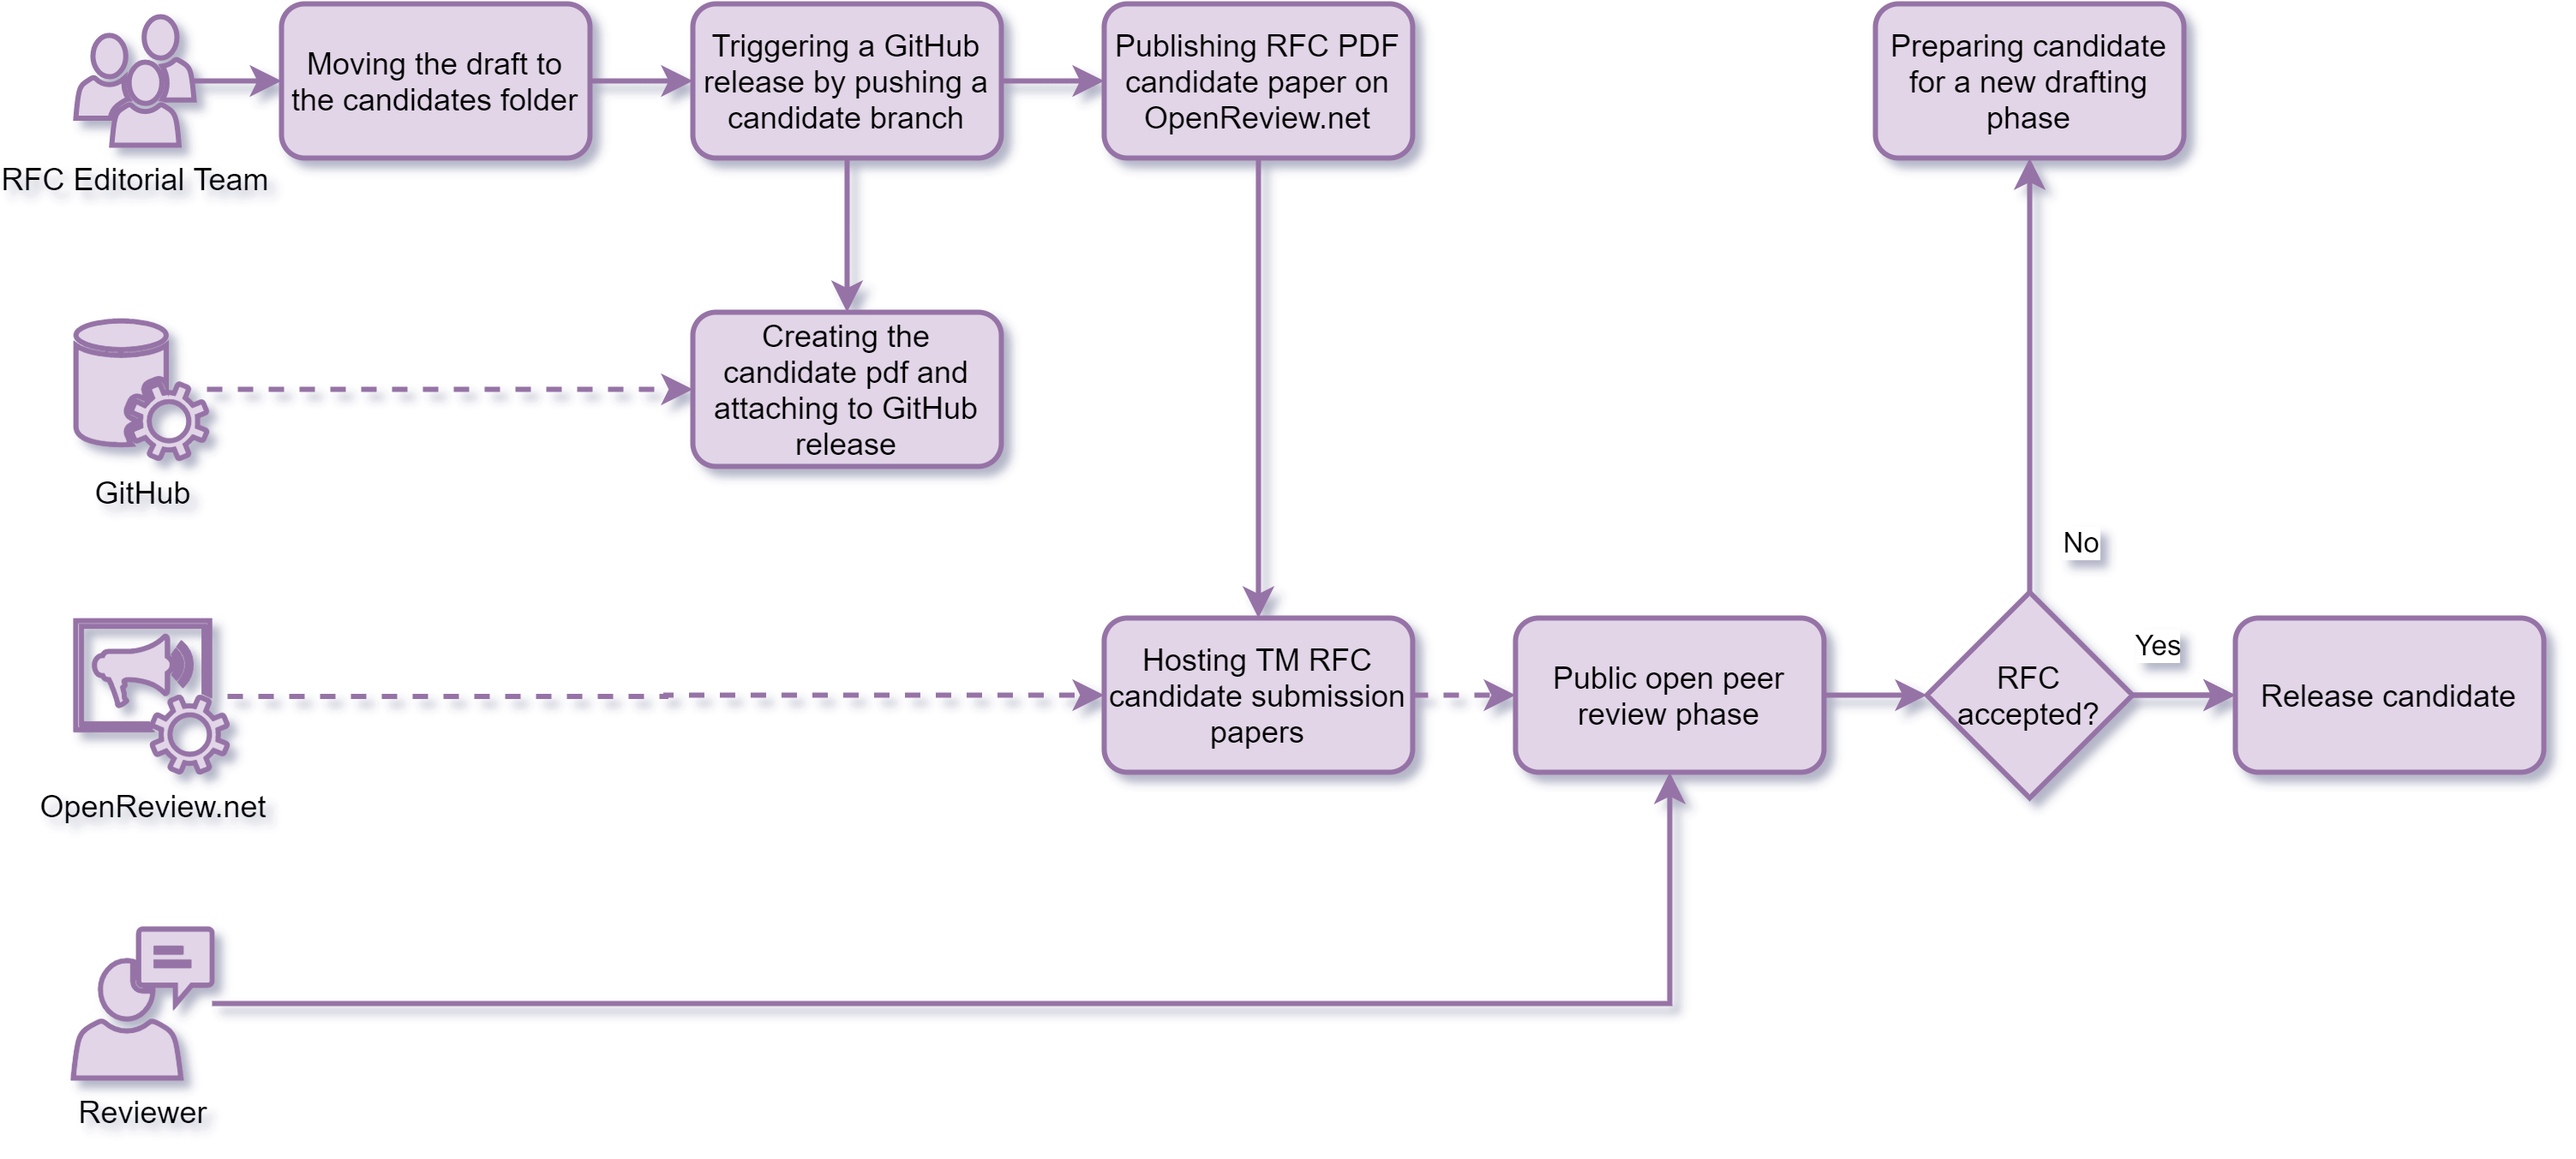
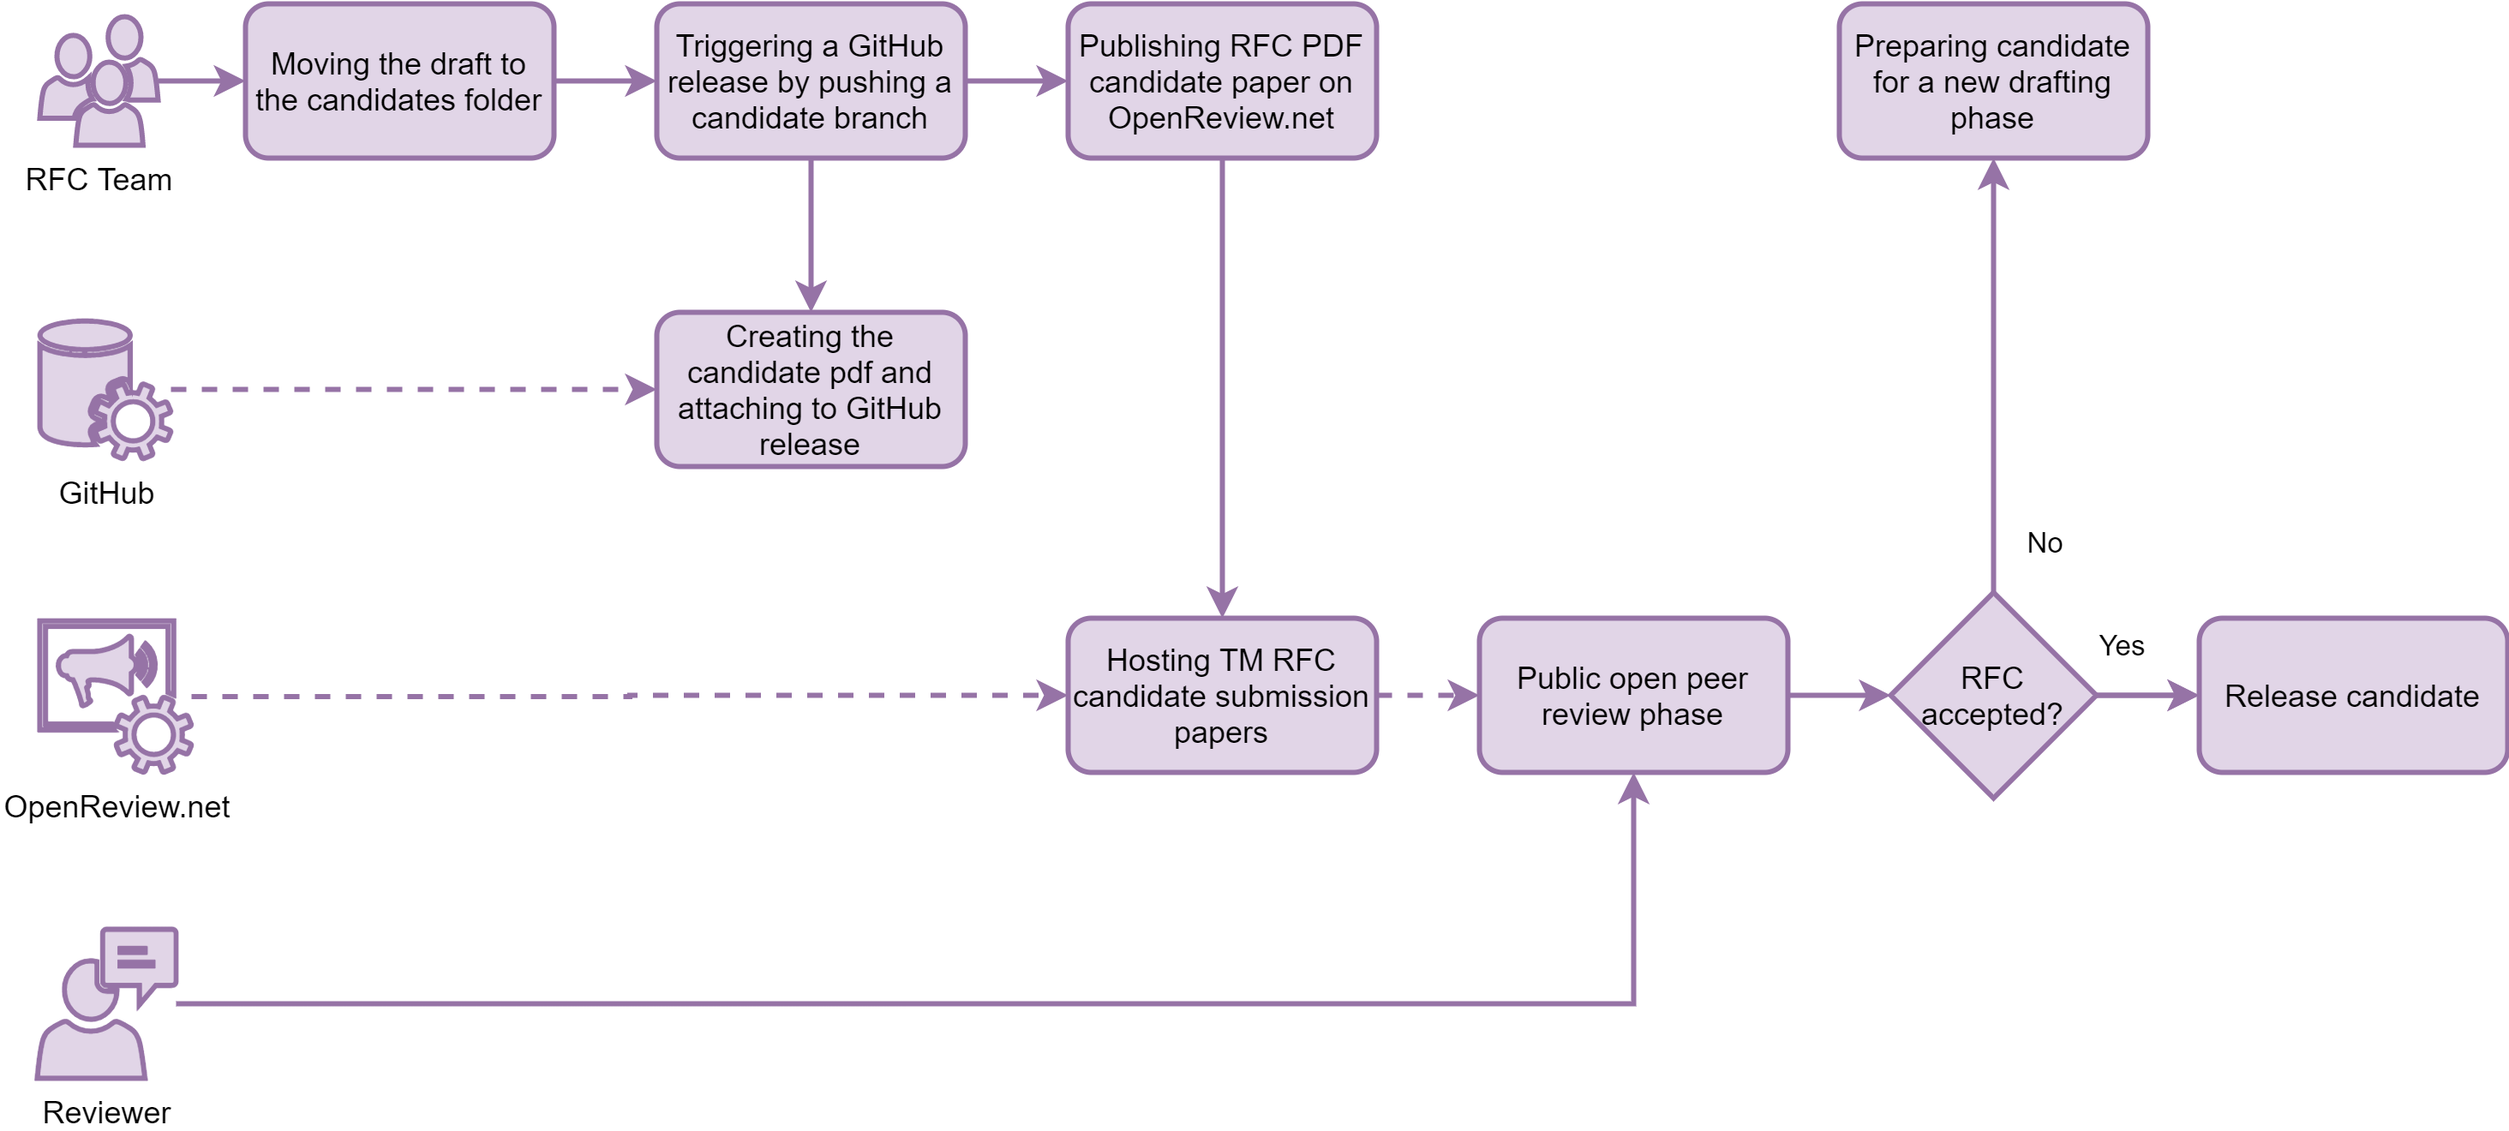
Unify RFC Team usage

Changed region(s): [[0.0, 0.0, 1.0, 0.9939], [0.0, 0.2485, 0.1243, 0.4659], [0.1865, 0.3106, 0.2176, 0.3417]]

diff --git a/files/drafts/RFC-0003/RFC-0003.md b/files/drafts/RFC-0003/RFC-0003.md
@@ -31,7 +31,7 @@ In addition to the git-based workflow, TM RFCs will also enable people who are n
 
 Before describing the workflow in detail, this section gives an overview on the most important design decisions and distinct parts of the platform.
 
-## Editorial committee and team
+## RFC Editorial Committee and RFC Team
 
 All strategic and aspects of the RFCs are managed by the **RFC Editorial Committee** appointed by the Time Machine Organisation board, the technical management, editorial work and support for RFC authors and other contributors is done by the **RFC Team**.
 
@@ -46,7 +46,7 @@ RFCs can be proposed by either the RFC Editorial Committee, RFC authors appointe
 
 ## Identifiers
 
-Any accepted RFC proposal will be assigned an identifier by the RFC Editorial Team. Identifiers are based on the pattern `RFC-[number]`. The numbers contain leading zeros to pad them to be four digits long. An example is this RFC itself, called `RFC-0003`, pronounced as _RFC-three_.
+Any accepted RFC proposal will be assigned an identifier by the RFC Team. Identifiers are based on the pattern `RFC-[number]`. The numbers contain leading zeros to pad them to be four digits long. An example is this RFC itself, called `RFC-0003`, pronounced as _RFC-three_.
 
 ## Document format
 
@@ -100,13 +100,13 @@ The official drafting phase begins with the merging of the initial RFC draft by 
 
 Persons interested in contributing to the text directly, either by additions or changes to the existing content, can create a new fork (a full copy) of the official repository or pull the current state of its master branch into their own pre-existing fork. They can then either: use the inline editor on the GitHub website to change the content of the RFC document in their own forked repository, or clone their repository to their computer and use a Markdown editor / Git client of their choice to work with the files.
 
-Changes to the RFC draft can be submitted at any time during the drafting phase in the form of pull requests from the forked repository to the so-called upstream repository, that is the official RFC repository. This enables the RFC Editorial Committee, Team and other contributors to review the proposed changes, suggest editions or point out problems directly next to the provided version of the draft document.
+Changes to the RFC draft can be submitted at any time during the drafting phase in the form of pull requests from the forked repository to the so-called upstream repository, that is the official RFC repository. This enables the RFC Editorial Committee, RFC Team and other contributors to review the proposed changes, suggest editions or point out problems directly next to the provided version of the draft document.
 
 All pull requests to the official RFC repository during the drafting phase can be reviewed by any contributor but to be accepted and to be merged, favourable reviews by at least three appointed reviewers will be necessary. These reviewers are appointed by the RFC Editorial Committee based on the area of expertise the RFC falls into. After a pull request passes the review, it is accepted and will be merged by the RFC Team into the master branch of the RFC repository. This makes the merged version the most recent official version of the draft. Other pull requests open at the same time will automatically be compared to this new version and will have to be amended by the contributors if necessary to solve possible conflicts with the then-official version.
 
 Merged pull requests will trigger a `GitHub Action`[^github_action] that compiles the current version of all open draft documents and attaches them as a ZIP file accessible in workflow job details[^github_job_details]. These preview files are available for 90 days.
 
-Another way for potential contributors not familiar with Markdown writing and the Git-based workflow to contribute are so-called GitHub Issues[^github_issues]. These are commonly used to give users the possibility to report software bugs to project developers and to track tasks to be done. In the TM RFCs issues can be created by any person that wants to just report a problem with the current version of the draft or to discuss specific topics or ideas related to the RFC. It is the responsibility of the RFC author to react to these issues and up to the the RFC Team to moderate the issues as necessary.
+Another way for potential contributors not familiar with Markdown writing and the Git-based workflow to contribute are so-called GitHub Issues[^github_issues]. These are commonly used to give users the possibility to report software bugs to project developers and to track tasks to be done. In the TM RFCs issues can be created by any person that wants to just report a problem with the current version of the draft or to discuss specific topics or ideas related to the RFC. It is the responsibility of the RFC author to react to these issues and up to the RFC Team to moderate the issues as necessary.
 
 ## Phase 3: Release candidate review
 
@@ -132,7 +132,7 @@ The finalized release PDF will then be published as an official publication by t
 
 ## Phase 5: Updates at a later point
 
-Due to the fact that the RFCs describe all aspect of the Time Machine, additions, amendmends or changes to existing RFCs can be necessary. In this case the RFC Team will move the RFC file from the `files/releases` folder back to the `files/drafts` folder and a new drafting phase can start based on an amended draft produced by the new draft authors. It will then again process through all the different phases as described above resulting in a new release version.
+Due to the fact that the RFCs describe all aspect of the Time Machine, additions, amendments or changes to existing RFCs can be necessary. In this case the RFC Team will move the RFC file from the `files/releases` folder back to the `files/drafts` folder and a new drafting phase can start based on an amended draft produced by the new draft authors. It will then again process through all the different phases as described above resulting in a new release version.
 
 # Q&A
 
